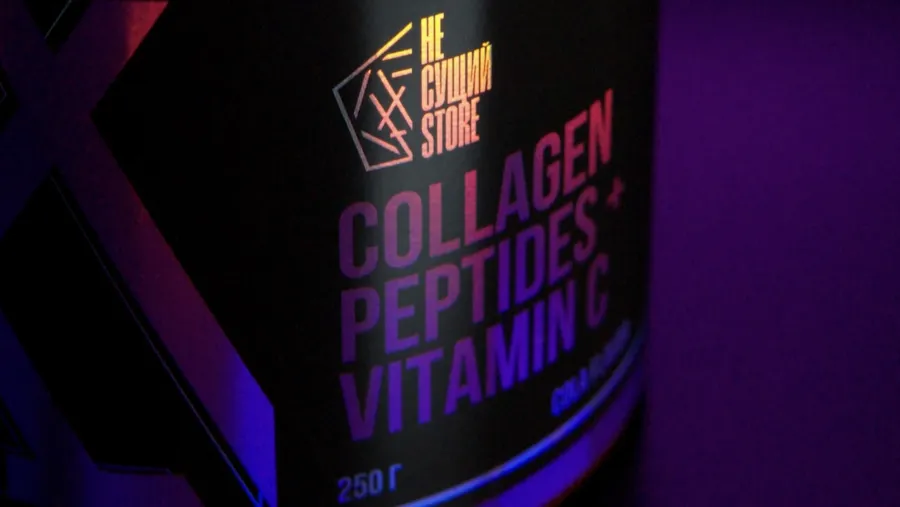
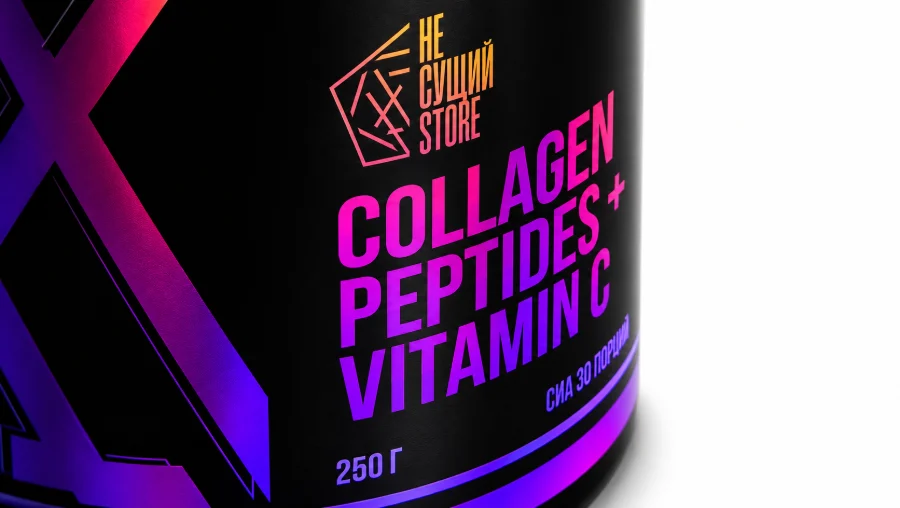
Сайт: 8282dae Новые фото Гидрафинила, Фенотропила, второе фото Омега-3 и Коллагена; Омега-3 вровень с остальными

diff --git a/products.js b/products.js
@@ -386,10 +386,10 @@ const PRODUCTS = [
     "pack": "180 EPA / 120 DHA · 200 капсул",
     "price": 2490,
     "hit": true,
-    "img": "p/omega3.webp?v=f5de07de",
+    "img": "p/omega3.webp?v=530ebd86",
     "gallery": [
-      "p/omega3.webp?v=f5de07de",
-      "p/omega3-1.webp?v=053c23fd"
+      "p/omega3.webp?v=530ebd86",
+      "p/omega3-1.webp?v=5f31ef7c"
     ],
     "tagline": "Для здоровья и долголетия",
     "desc": "В современном мире около 85% населения планеты испытывают дефицит Омега-3, что делает нашу добавку одной из самых необходимых для здоровья. Каждая капсула содержит только полезные полиненасыщенные жирные кислоты, которые играют важную роль в метаболических процессах организма.",
@@ -842,7 +842,7 @@ const PRODUCTS = [
     "img": "p/collagen.webp?v=0c77fbb5",
     "gallery": [
       "p/collagen.webp?v=0c77fbb5",
-      "p/collagen-1.webp?v=049dd3bc"
+      "p/collagen-1.webp?v=fd3533ab"
     ],
     "tagline": "Для кожи и суставов",
     "desc": "Коллаген — это важнейший компонент соединительной ткани, который играет ключевую роль в поддержании здоровья суставов, связок, костей и кожи. Добавка содержит коллаген I и III типов, что делает её особенно эффективной.",
@@ -1609,9 +1609,9 @@ const PRODUCTS = [
     "name": "Гидрафинил",
     "pack": "100 мг · 30 таблеток",
     "price": 4900,
-    "img": "p/hydrafinil-jar.webp?v=23403334",
+    "img": "p/hydrafinil-jar.webp?v=b6eb5a58",
     "gallery": [
-      "p/hydrafinil-jar.webp?v=23403334"
+      "p/hydrafinil-jar.webp?v=b6eb5a58"
     ],
     "tagline": "",
     "desc": "Гидрафинил - производное от знаменитого модафинила, запрещенного в РФ. Модафинил сравнивают с микродозом наркотических стимулирующих веществ, поэтому его и запретили. Гидрафинил является легальной и более эффективной альтернативой.",
@@ -1651,9 +1651,9 @@ const PRODUCTS = [
     "name": "Фенотропил",
     "pack": "100 мг · 30 капсул",
     "price": 7900,
-    "img": "p/phenotropil-jar.webp?v=1a248928",
+    "img": "p/phenotropil-jar.webp?v=07e6e912",
     "gallery": [
-      "p/phenotropil-jar.webp?v=1a248928"
+      "p/phenotropil-jar.webp?v=07e6e912"
     ],
     "tagline": "",
     "desc": "Фенотропил - одно из сильнейших ноотропных средств.",

diff --git a/index.html b/index.html
@@ -32,12 +32,12 @@
   <!-- шрифты не блокируют первую отрисовку -->
   <link rel="preload" as="style" href="https://fonts.googleapis.com/css2?family=Inter:wght@400;500;600;700;800&family=Oswald:wght@500;600&display=swap" onload="this.onload=null;this.rel='stylesheet'">
   <noscript><link rel="stylesheet" href="https://fonts.googleapis.com/css2?family=Inter:wght@400;500;600;700;800&family=Oswald:wght@500;600&display=swap"></noscript>
-  <link rel="stylesheet" href="styles.css?v=dec6bdc">
-  <link rel="stylesheet" href="mega.css?v=dec6bdc">
-  <link rel="stylesheet" href="home.css?v=dec6bdc">
-  <link rel="stylesheet" href="reviews.css?v=dec6bdc">
-  <link rel="stylesheet" href="account.css?v=dec6bdc">
-  <link rel="stylesheet" href="mobile.css?v=dec6bdc">
+  <link rel="stylesheet" href="styles.css?v=8282dae">
+  <link rel="stylesheet" href="mega.css?v=8282dae">
+  <link rel="stylesheet" href="home.css?v=8282dae">
+  <link rel="stylesheet" href="reviews.css?v=8282dae">
+  <link rel="stylesheet" href="account.css?v=8282dae">
+  <link rel="stylesheet" href="mobile.css?v=8282dae">
 </head>
 <body>
   <!-- Иконки -->
@@ -417,12 +417,12 @@
 
   <div class="toast" id="toast" role="status"></div>
 
-  <script defer src="config.js?v=dec6bdc"></script>
-  <script defer src="vendor/supabase.js?v=dec6bdc"></script>
-  <script defer src="api.js?v=dec6bdc"></script>
-  <script defer src="products.js?v=dec6bdc"></script>
-  <script defer src="reviews.js?v=dec6bdc"></script>
-  <script defer src="app.js?v=dec6bdc"></script>
-  <script defer src="account.js?v=dec6bdc"></script>
+  <script defer src="config.js?v=8282dae"></script>
+  <script defer src="vendor/supabase.js?v=8282dae"></script>
+  <script defer src="api.js?v=8282dae"></script>
+  <script defer src="products.js?v=8282dae"></script>
+  <script defer src="reviews.js?v=8282dae"></script>
+  <script defer src="app.js?v=8282dae"></script>
+  <script defer src="account.js?v=8282dae"></script>
 </body>
 </html>

diff --git a/app.js b/app.js
@@ -37,7 +37,7 @@
     const avg = avgRating(list);
     return (avg ? `<b>★ ${fmtAvg(avg)}</b>` : "") + `<span>${list.length} ${plural(list.length, ["отзыв", "отзыва", "отзывов"])}</span>`;
   }
-  const CAT_IMG = { samples: "p/samples.webp?v=06b47a1f", sex: "p/maca.webp?v=623b2771", vit: "p/omega3.webp?v=f5de07de", life: "p/garlic.webp?v=55a2213b", brain: "p/hericium.webp?v=05e00ac9", sport: "p/creatine.webp?v=c9769674", calm: "p/ashwagandha.webp?v=9e8bc937", tea: "p/da-hong-pao.webp?v=534673e0", perfume: "p/capital.webp?v=a55fb92e" };
+  const CAT_IMG = { samples: "p/samples.webp?v=06b47a1f", sex: "p/maca.webp?v=623b2771", vit: "p/omega3.webp?v=530ebd86", life: "p/garlic.webp?v=55a2213b", brain: "p/hericium.webp?v=05e00ac9", sport: "p/creatine.webp?v=c9769674", calm: "p/ashwagandha.webp?v=9e8bc937", tea: "p/da-hong-pao.webp?v=534673e0", perfume: "p/capital.webp?v=a55fb92e" };
 
   // ---------- Хранилище (корзина, избранное) ----------
   const load = (k, d) => { try { return JSON.parse(localStorage.getItem(k)) || d; } catch { return d; } };
